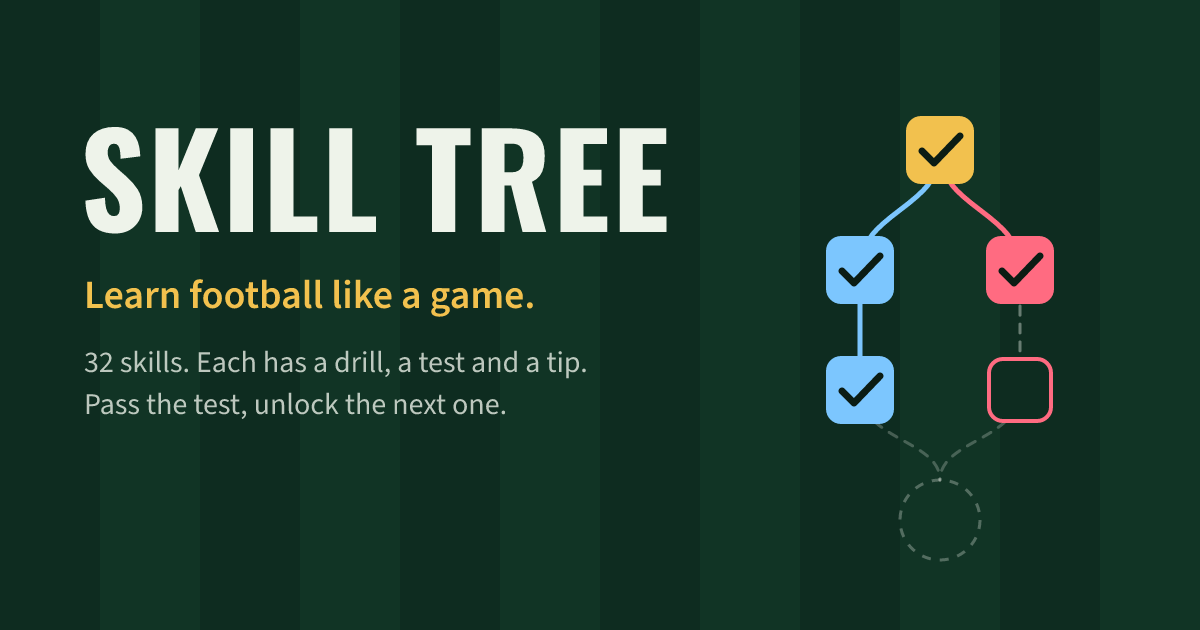
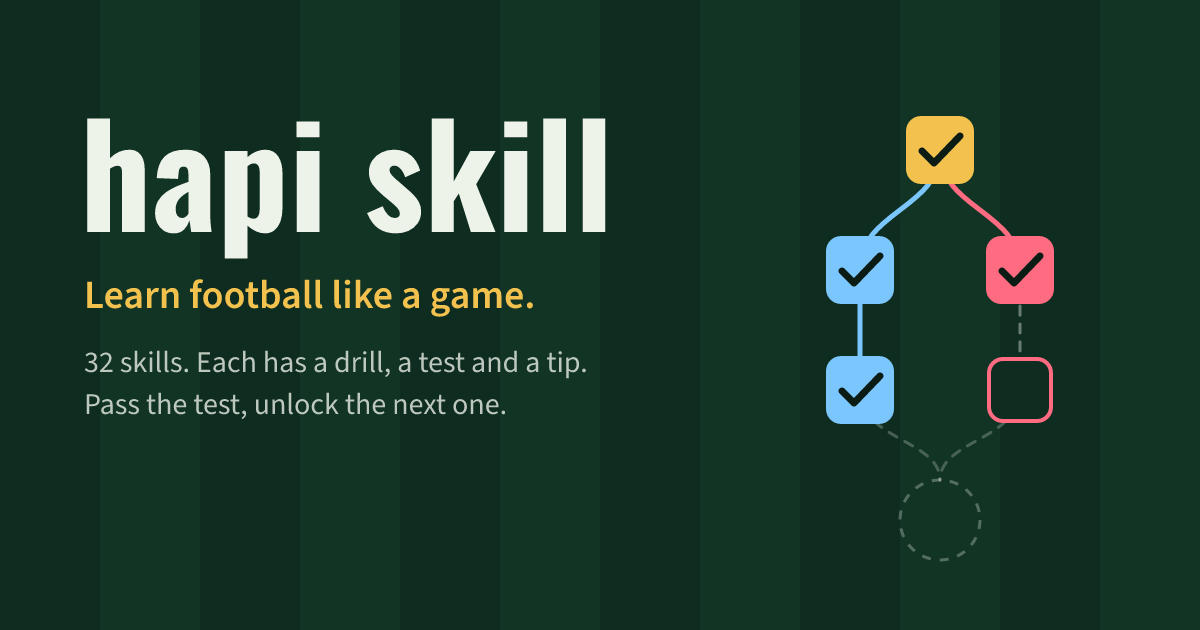
feat: rename the app to "hapi skill"
Use the new name in the page title, home-screen name, web app manifest,
link-preview tags and preview image. Keep the editable SVG sources for the
icon and preview image in design/ so they can be changed and re-rendered.

Changed region(s): [[0.0617, 0.181, 0.555, 0.4222]]

diff --git a/index.html b/index.html
@@ -3,23 +3,23 @@
   <head>
     <meta charset="UTF-8" />
     <meta name="viewport" content="width=device-width, initial-scale=1.0" />
-    <title>Skill Tree: learn football like a game</title>
+    <title>hapi skill: learn football like a game</title>
     <meta name="description" content="32 football skills, each with a drill, a test and a tip. Pass the test, unlock the next one." />
     <meta name="theme-color" content="#0a2118" />
     <link rel="icon" href="/favicon.svg" type="image/svg+xml" />
     <link rel="apple-touch-icon" href="/apple-touch-icon.png" />
-    <meta name="apple-mobile-web-app-title" content="Skill Tree" />
+    <meta name="apple-mobile-web-app-title" content="hapi skill" />
 
     <!-- Link previews (WhatsApp, iMessage, Instagram, X). Crawlers need full URLs, so update these if the domain changes. -->
     <meta property="og:type" content="website" />
-    <meta property="og:site_name" content="Skill Tree" />
-    <meta property="og:title" content="Skill Tree: learn football like a game" />
+    <meta property="og:site_name" content="hapi skill" />
+    <meta property="og:title" content="hapi skill: learn football like a game" />
     <meta property="og:description" content="32 football skills, each with a drill, a test and a tip. Pass the test, unlock the next one." />
     <meta property="og:url" content="https://skill-tree-5y8k.vercel.app/" />
     <meta property="og:image" content="https://skill-tree-5y8k.vercel.app/og-image.png" />
     <meta property="og:image:width" content="1200" />
     <meta property="og:image:height" content="630" />
-    <meta property="og:image:alt" content="Skill Tree: a football skill tree with finished skills lit up." />
+    <meta property="og:image:alt" content="hapi skill: a football skill tree with finished skills lit up." />
     <meta name="twitter:card" content="summary_large_image" />
     <link rel="preconnect" href="https://fonts.googleapis.com" />
     <link rel="preconnect" href="https://fonts.gstatic.com" crossorigin />

diff --git a/vite.config.ts b/vite.config.ts
@@ -10,8 +10,8 @@ export default defineConfig({
       // New deploys replace the cached app on the next visit, so nobody gets stuck on an old version.
       registerType: 'autoUpdate',
       manifest: {
-        name: 'Skill Tree',
-        short_name: 'Skill Tree',
+        name: 'hapi skill',
+        short_name: 'hapi skill',
         description: 'Learn football the way you level up in a game. Pass the test, unlock the next skill.',
         theme_color: '#0a2118',
         background_color: '#0e2c20',

diff --git a/design/README.md b/design/README.md
@@ -1,0 +1,10 @@
+# Design sources
+
+Editable sources for the images in `public/`. Edit the SVG, then render it to PNG.
+
+| Source | Renders to |
+| --- | --- |
+| `icon.svg` | `public/favicon.svg` (copy), `public/icon-192.png`, `public/icon-512.png`, `public/apple-touch-icon.png` (180 px) |
+| `og-image.svg` | `public/og-image.png` (1200 × 630, the link-preview card) |
+
+`og-image.svg` uses the Oswald (700) and Source Sans 3 (400, 600) fonts, so the renderer needs them installed or passed in. [resvg](https://github.com/linebender/resvg) renders both files correctly; ImageMagick's built-in SVG renderer drops the lines and checkmarks.

diff --git a/README.md b/README.md
@@ -1,4 +1,4 @@
-# Skill Tree
+# hapi skill
 
 Learn a hobby the way you level up in a game. Each skill has a drill, a clear test and a tip. Pass the test, unlock the next skill.
 
